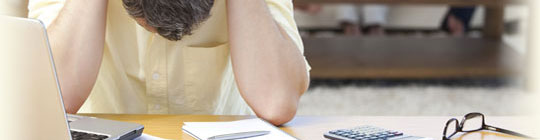
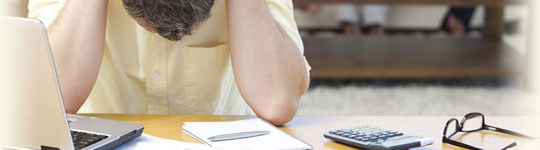
Rename

diff --git a/banner.php b/banner.php
@@ -38,7 +38,7 @@
 								<?php wpbp_image_tag( array(
 									'src' => THEME_URI . '/img/banner_image.jpg',
 									'width' => 540,
-									'height' => 140,
+									'height' => 150,
 									'alt' => __("Solutions aux dettes et à l'endettement", 'sosendettement')
 								) ); ?>
 							<?php endif; ?>
